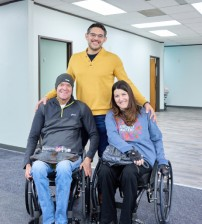
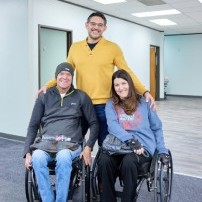
fixed images
Also reformatted the about us page to be more consistent across different screen sizes

diff --git a/AbleFaith/app/(tabs)/about-us.tsx b/AbleFaith/app/(tabs)/about-us.tsx
@@ -111,6 +111,7 @@ export default function AboutUs() {
     flatListRef.current?.scrollToIndex({ index, animated: true });
     setActiveIndex(index);
   };
+
   const sponsorLogos = [
     require('../../assets/images/about-us-images/wingstop.png'),
     require('../../assets/images/about-us-images/benton-luttrell.png'),
@@ -121,35 +122,35 @@ export default function AboutUs() {
   return (
     <ScrollView style={styles.container} contentContainerStyle={{ paddingBottom: 40 }}>
       <CustomHeader/>
-      
+
       <View style={styles.contentContainer}>
         {/* About Us Header */}
         <Text style={styles.sectionTitle}>About us:</Text>
 
-        {/* About Us images */}
-        <View style={styles.blueImageBackground}>
-          <View style={styles.teamCard}>
-            <Image
-              source={require('../../assets/images/about-us-images/AbleFaithOpening-RibbonCutting1.jpg')}
-              style={styles.headshotPlaceholder}
-              resizeMode="cover"
-            />
-          </View>
-          <View style={styles.teamCard}>
-            <Image
-              source={require('../../assets/images/about-us-images/Thanksgiving1.jpg')}
-              style={styles.headshotPlaceholder}
-              resizeMode="cover"
-            />
-          </View>
-          <View style={styles.teamCard}>
-            <Image
-              source={require('../../assets/images/about-us-images/Thanksgiving-MasonandEmily1.jpg')}
-              style={styles.headshotPlaceholder}
-              resizeMode="cover"
-            />
-          </View>
+       {/* About Us images */}
+      <View style={styles.blueImageBackground}>
+        <View style={styles.aboutImageWrapper}>
+          <Image
+            source={require('../../assets/images/about-us-images/AbleFaithOpening-RibbonCutting1.jpg')}
+            style={styles.aboutImage}
+            resizeMode="contain"
+          />
         </View>
+        <View style={styles.aboutImageWrapper}>
+          <Image
+            source={require('../../assets/images/about-us-images/Thanksgiving1.jpg')}
+            style={styles.aboutImage}
+            resizeMode="contain"
+          />
+        </View>
+        <View style={styles.aboutImageWrapper}>
+          <Image
+            source={require('../../assets/images/about-us-images/Thanksgiving-MasonandEmily1.jpg')}
+            style={styles.aboutImage}
+            resizeMode="contain"
+          />
+        </View>
+      </View>
 
         {/* Our Mission */}
         <Text style={styles.sectionTitle}>Our Mission:</Text>
@@ -171,31 +172,37 @@ export default function AboutUs() {
         <Text style={styles.sectionTitle}>Meet the Team:</Text>
         <View style={styles.teamRow}>
           <View style={styles.teamCard}>
-            <Image
-              source={require('../../assets/images/about-us-images/Reena_Patel.JPG')}
-              style={styles.headshotPlaceholder}
-              resizeMode="cover"
-            />
+            <View style={styles.headshotWrapper}>
+              <Image
+                source={require('../../assets/images/about-us-images/Reena_Patel.png')}
+                style={styles.headshotImage}
+                resizeMode="contain"
+              />
+            </View>
             <Text style={styles.personName}>Reena Patel</Text>
             <Text style={styles.personRole}>Staff</Text>
           </View>
 
           <View style={styles.teamCard}>
-            <Image
-              source={require('../../assets/images/about-us-images/Jim_Hemsworth.JPG')}
-              style={styles.headshotPlaceholder}
-              resizeMode="cover"
-            />
+            <View style={styles.headshotWrapper}>
+              <Image
+                source={require('../../assets/images/about-us-images/Jim_Hemsworth.png')}
+                style={styles.headshotImage}
+                resizeMode="contain"
+              />
+            </View>
             <Text style={styles.personName}>Jim Hemsworth</Text>
             <Text style={styles.personRole}>Staff</Text>
           </View>
 
           <View style={styles.teamCard}>
-            <Image
-              source={require('../../assets/images/about-us-images/Deneen_Cavett.JPG')}
-              style={styles.headshotPlaceholder}
-              resizeMode="cover"
-            />
+            <View style={styles.headshotWrapper}>
+              <Image
+                source={require('../../assets/images/about-us-images/Deneen_Cavett.png')}
+                style={styles.headshotImage}
+                resizeMode="contain"
+              />
+            </View>
             <Text style={styles.personName}>Deneen Cavett</Text>
             <Text style={styles.personRole}>Staff</Text>
           </View>
@@ -205,31 +212,37 @@ export default function AboutUs() {
         <Text style={styles.sectionTitle}>Our Board:</Text>
         <View style={styles.teamRow}>
           <View style={styles.teamCard}>
-            <Image
-              source={require('../../assets/images/about-us-images/Bethany_Brown.JPG')}
-              style={styles.headshotPlaceholder}
-              resizeMode="cover"
-            />
+            <View style={styles.headshotWrapper}>
+              <Image
+                source={require('../../assets/images/about-us-images/Bethany_Brown.png')}
+                style={styles.headshotImage}
+                resizeMode="contain"
+              />
+            </View>
             <Text style={styles.personName}>Bethany Brown</Text>
             <Text style={styles.personRole}>Co-Founder</Text>
           </View>
 
           <View style={styles.teamCard}>
-            <Image
-              source={require('../../assets/images/about-us-images/Jose_Martinez.JPG')}
-              style={styles.headshotPlaceholder}
-              resizeMode="cover"
-            />
+            <View style={styles.headshotWrapper}>
+              <Image
+                source={require('../../assets/images/about-us-images/Jose_Martinez.png')}
+                style={styles.headshotImage}
+                resizeMode="contain"
+              />
+            </View>
             <Text style={styles.personName}>Jose Martinez</Text>
             <Text style={styles.personRole}>Co-Founder</Text>
           </View>
 
           <View style={styles.teamCard}>
-            <Image
-              source={require('../../assets/images/about-us-images/Bruce_Patel.JPG')}
-              style={styles.headshotPlaceholder}
-              resizeMode="cover"
-            />
+            <View style={styles.headshotWrapper}>
+              <Image
+                source={require('../../assets/images/about-us-images/Bruce_Patel.png')}
+                style={styles.headshotImage}
+                resizeMode="contain"
+              />
+            </View>
             <Text style={styles.personName}>Bruce Patel</Text>
             <Text style={styles.personRole}>Chairman</Text>
           </View>
@@ -248,6 +261,7 @@ export default function AboutUs() {
             </View>
           ))}
         </View>
+
         {/* Testimonials */}
         <Text style={styles.sectionTitle}>What People Say:</Text>
         <View style={styles.testimonialsWrapper}>
@@ -281,7 +295,6 @@ export default function AboutUs() {
               </View>
             )}
           />
-          {/* Dot indicators */}
           <View style={styles.dotsContainer}>
             {testimonials.map((_, i) => (
               <TouchableOpacity key={i} onPress={() => goToSlide(i)}>
@@ -344,12 +357,14 @@ const styles = StyleSheet.create({
     textAlign: "center",
     fontSize: 16,
     fontWeight: "600",
-    color: "#fff",
+    color: "#000000",
   },
+
   pageContainer: {
     flex: 1,
     padding: 20,
   },
+
   teamRow: {
     flexDirection: "row",
     justifyContent: "space-between",
@@ -365,12 +380,21 @@ const styles = StyleSheet.create({
     paddingBottom: 6,
   },
 
-  headshotPlaceholder: {
+  // --- Headshot wrappers for all team/board images ---
+  headshotWrapper: {
     width: "100%",
     aspectRatio: 1,
+    backgroundColor: "#f0f0f0",
     borderRadius: 12,
+    justifyContent: "center",
+    alignItems: "center",
     overflow: "hidden",
     marginBottom: 6,
+  },
+
+  headshotImage: {
+    width: "100%",
+    height: "100%",
   },
 
   personName: {
@@ -403,7 +427,7 @@ const styles = StyleSheet.create({
     borderRadius: 10,
     borderWidth: 1,
     borderColor: "#e0e0e0",
-    backgroundColor: "#fff", // optional
+    backgroundColor: "#fff",
   },
 
   sponsorLogoImage: {
@@ -499,5 +523,19 @@ const styles = StyleSheet.create({
     backgroundColor: "#c44a0c",
     width: 20,
     borderRadius: 4,
+  },
+
+  // About Us images (top row)
+  aboutImageWrapper: {
+  flex: 1,
+  aspectRatio: 1.5, // keeps the box size
+  marginHorizontal: 4,
+  borderRadius: 12,
+  overflow: "hidden",
+  backgroundColor: "#f0f0f0", // optional background for letterbox
+  },
+  aboutImage: {
+    width: "100%",
+    height: "100%",
   },
 });
